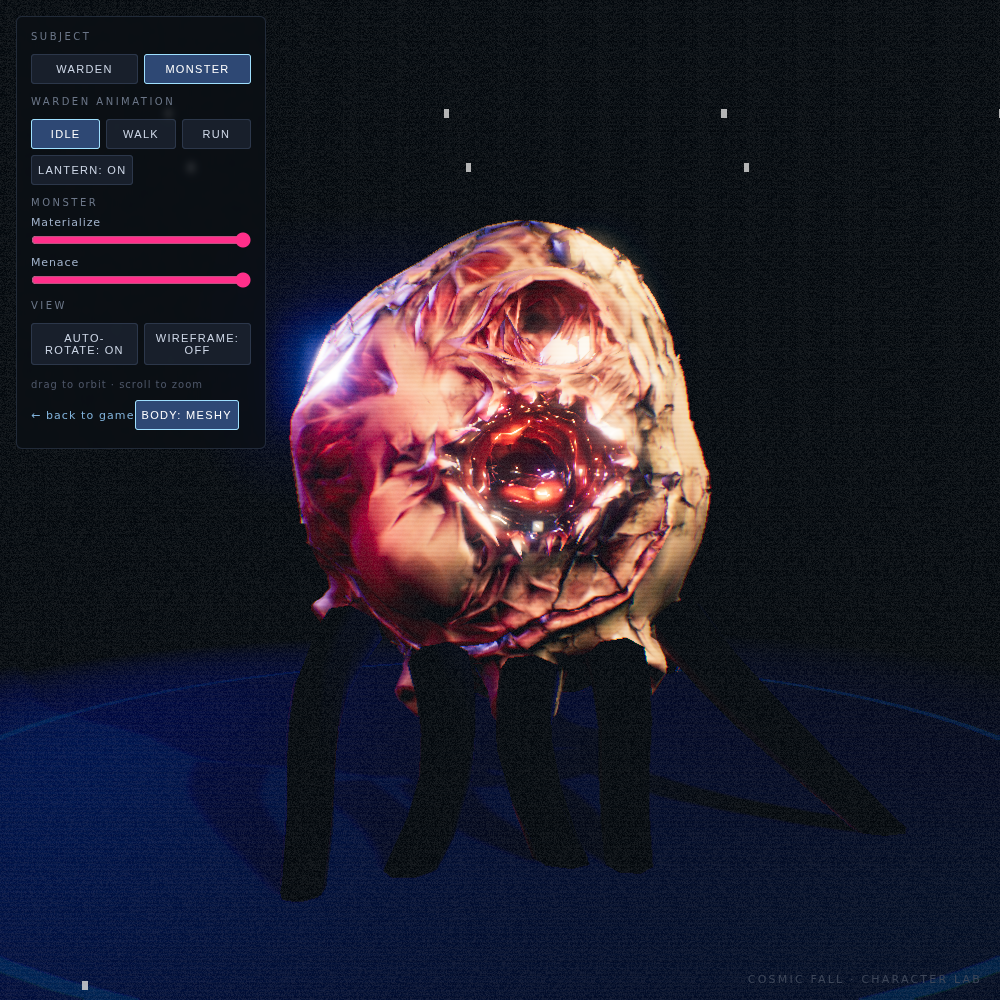
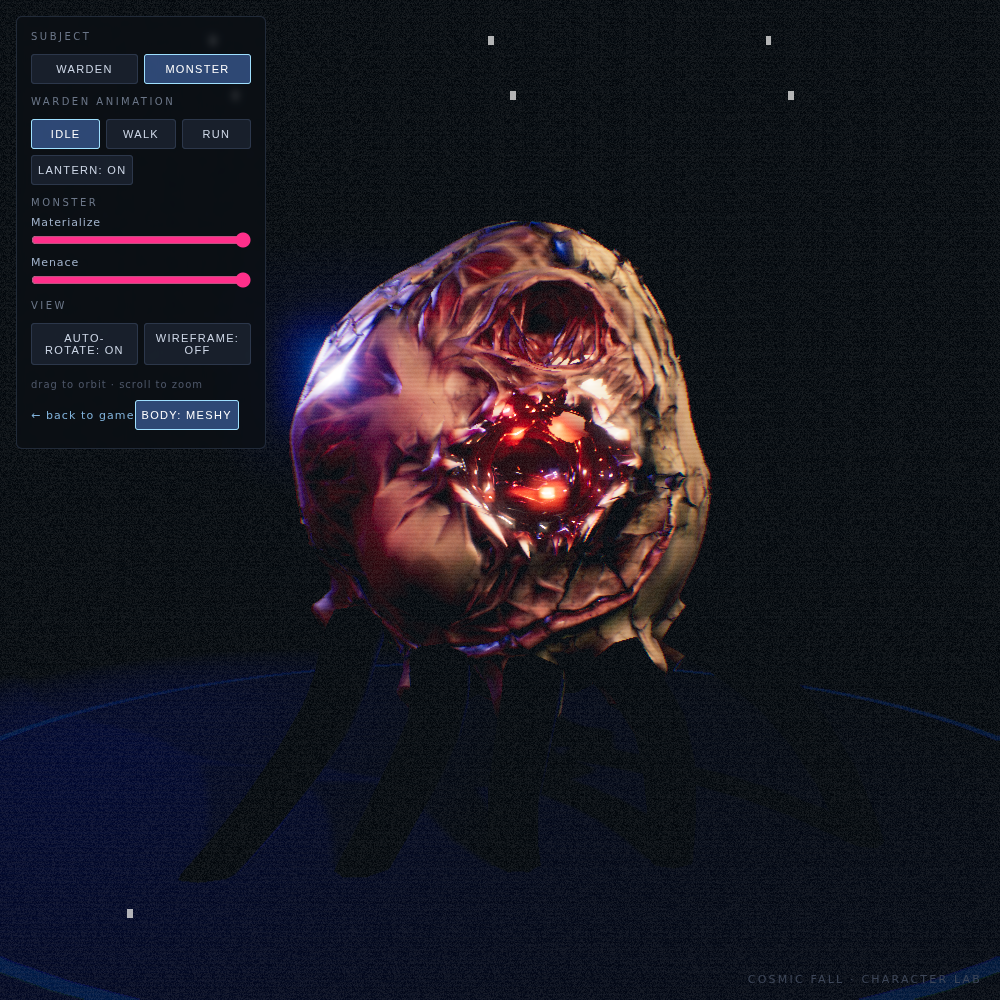
Socket analysis + eye reseat; hole auto-detector for future models
- Add tools/analyze-holes.mjs: welds vertices and finds real boundary-edge loops
  (open holes) with centroid/axis/radius in body-local space — automatic,
  marker-free socket detection. Ran on monster2: it is a closed/watertight
  sculpt (no real openings), so its sockets are recessed pockets, not holes.
  The detector will auto-place rig anchors exactly for any future model whose
  sockets are modelled as actual holes.
- Reseat the living eye deeper/centred in monster2's eye socket; make debug rig
  markers render on top (depthTest off) for alignment.
- Verified headless (lab) with zero console/page errors.

Claude-Session: https://claude.ai/code/session_01R2hd8RKoAbjKkGkBp6rn3Q

Changed region(s): [[0.0, 0.217, 1.0, 1.0], [0.558, 0.775, 0.62, 0.806], [0.744, 0.651, 0.775, 0.682]]

diff --git a/src/meshyrig.js b/src/meshyrig.js
@@ -6,7 +6,7 @@ import { clamp, damp, TAU } from './util.js';
 // Default anchors for monster2.glb (root-local space: x[-1.5,1.5] y[0,3.4] z[-1.5,1.5],
 // face toward +Z). Tuned visually in the Lab.
 export const MONSTER2_RIG = {
-  eye: { pos: [0.34, 2.32, 0.98], dir: [0.15, 0.1, 1], size: 0.27 },
+  eye: { pos: [0.30, 2.18, 1.02], dir: [0.12, 0.05, 1], size: 0.29 },
   sockets: [
     { pos: [-1.05, 0.75, 0.85], dir: [-0.5, -0.55, 0.7] },
     { pos: [-0.55, 0.58, 1.15], dir: [-0.2, -0.7, 0.7] },
@@ -97,9 +97,9 @@ export class MeshyRig {
   }
 
   _buildDebug() {
-    const mk = (p, c) => { const m = new THREE.Mesh(new THREE.SphereGeometry(0.08, 8, 8), new THREE.MeshBasicMaterial({ color: c })); m.position.set(...p); this.parent.add(m); this.debug.push(m); };
+    const mk = (p, c, r = 0.14) => { const m = new THREE.Mesh(new THREE.SphereGeometry(r, 10, 10), new THREE.MeshBasicMaterial({ color: c })); m.position.set(...p); m.renderOrder = 999; m.material.depthTest = false; this.parent.add(m); this.debug.push(m); };
     for (const s of this.config.sockets) mk(s.pos, 0x00ff88);
-    mk(this.config.eye.pos, 0x00aaff);
+    mk(this.config.eye.pos, 0x00aaff, 0.1);
   }
 
   update(dt, { menace = 0.5, materialize = 1, lookTarget = null } = {}) {
